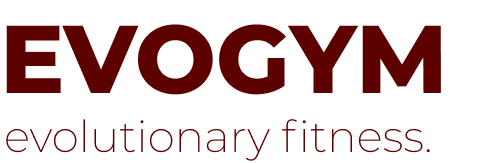
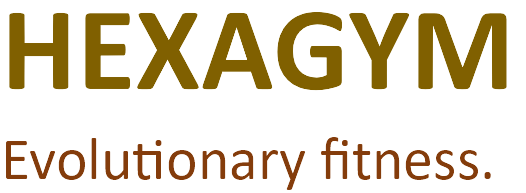
COMMIT

diff --git a/src/scenes/footer/index.tsx b/src/scenes/footer/index.tsx
@@ -1,0 +1,32 @@
+import Logo from "@/assets/Logo.png";
+
+const Footer = () => {
+  return (
+    <footer className="bg-primary-100 py-16">
+      <div className="justify-content mx-auto w-5/6 gap-16 md:flex">
+        <div className="mt-16 basis-1/2 md:mt-0">
+          <img alt="logo" src={Logo} />
+          <p className="my-5">
+            Lorem vitae ut augue auctor faucibus eget eget ut libero. Elementum
+            purus et arcu massa dictum condimentum. Augue scelerisque iaculis
+            orci ut habitant laoreet. Iaculis tristique.
+          </p>
+          <p>© Hexagym All Rights Reserved.</p>
+        </div>
+        <div className="mt-16 basis-1/4 md:mt-0">
+          <h4 className="font-bold">Links</h4>
+          <p className="my-5">Massa orci senectus</p>
+          <p className="my-5">Et gravida id et etiam</p>
+          <p>Ullamcorper vivamus</p>
+        </div>
+        <div className="mt-16 basis-1/4 md:mt-0">
+          <h4 className="font-bold">Contact Us</h4>
+          <p className="my-5">Tempus metus mattis risus volutpat egestas.</p>
+          <p>(333)425-6825</p>
+        </div>
+      </div>
+    </footer>
+  );
+};
+
+export default Footer;

diff --git a/src/App.tsx b/src/App.tsx
@@ -5,6 +5,7 @@ import Home from '@/scenes/home';
 import Benefits from '@/scenes/benefits';
 import OurClasses from '@/scenes/ourClasses';
 import ContactUs from '@/scenes/contactUs';
+import Footer from '@/scenes/footer';
 function App() {
 
   const [selectedPage, setSelectedPage] = useState<SelectedPage>(SelectedPage.Home);
@@ -33,7 +34,7 @@ function App() {
        <Benefits setSelectedPage={setSelectedPage}/>
       <OurClasses setSelectedPage={setSelectedPage}/>
       <ContactUs setSelectedPage={setSelectedPage}/>
-
+      <Footer/>
     </div>;
   
 }

diff --git a/src/scenes/navbar/index.tsx b/src/scenes/navbar/index.tsx
@@ -45,7 +45,7 @@ const Navbar = ({ isTopOfPage, selectedPage, setSelectedPage }: Props) => {
                     setSelectedPage={setSelectedPage}
                    />
                   <Link 
-                    page='ur Classes'
+                    page='Our Classes'
                     selectedPage={selectedPage}
                     setSelectedPage={setSelectedPage}
                   />

diff --git a/src/scenes/contactUs/index.tsx b/src/scenes/contactUs/index.tsx
@@ -68,7 +68,7 @@ const ContactUs = ({ setSelectedPage }: Props) => {
             <form
               target="_blank"
               onSubmit={onSubmit}
-              action="https://formsubmit.co/e8a5bdfa807605332f809e5656e27c6e"
+              action="https://formsubmit.co/chinchubabu98@gmail.com"
               method="POST"
             >
               <input
